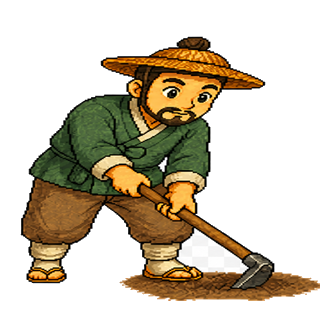
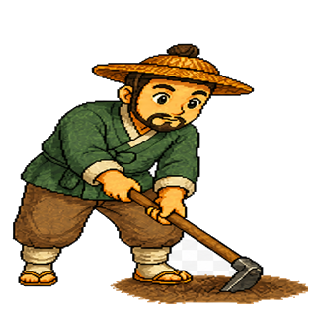
repair farm sprite transparency margins

diff --git a/src/index.html b/src/index.html
@@ -5,13 +5,13 @@
   <meta name="viewport" content="width=device-width,initial-scale=1,viewport-fit=cover">
   <title>선화공주 만들기 — 자산 로딩 테스트</title>
   <link rel="stylesheet" href="style.css?v=0.64.18-debug">
-  <link rel="stylesheet" href="schedule.css?v=0.64.52-debug">
+  <link rel="stylesheet" href="schedule.css?v=0.64.53-debug">
   <link rel="stylesheet" href="schedule-pm2.css?v=0.64.18-debug">
   <link rel="stylesheet" href="birthday.css?v=0.64.18-debug">
   <link rel="stylesheet" href="prologue.css?v=0.64.18-debug">
   <link rel="stylesheet" href="rain-v2.css">
   <link rel="stylesheet" href="naming.css?v=0.64.18-debug">
-  <link rel="stylesheet" href="guardian.css?v=0.64.52-debug">
+  <link rel="stylesheet" href="guardian.css?v=0.64.53-debug">
   <link rel="stylesheet" href="guardian-anime.css?v=0.64.18-debug">
   <link rel="stylesheet" href="naming-stable.css?v=0.64.18-debug">
   <link rel="stylesheet" href="live-changes.css?v=0.64.18-debug">
@@ -48,7 +48,7 @@
       </div>
       <span class="loading-caption">이야기를 열 준비가 되었어요</span>
       <button class="studio-start-sound" id="studioStartSound" type="button">인연의 문을 열기</button>
-      <small class="loading-version" aria-label="현재 게임 버전">v0.64.52-debug</small>
+      <small class="loading-version" aria-label="현재 게임 버전">v0.64.53-debug</small>
     </section>
     <section class="prologue" id="prologue" aria-label="이야기 시작 영상" hidden>
       <audio id="prologueMusic" src="../assets/audio/music/prologue-lantern-and-dawn.mp3" preload="auto" loop></audio>
@@ -244,6 +244,6 @@
       </div>
     </section>
   </main>
-  <script src="schedule-layer-manifests.js?v=0.64.18-debug"></script><script src="story-data.js?v=0.64.18-debug"></script><script src="app.js?v=0.64.52-debug"></script>
+  <script src="schedule-layer-manifests.js?v=0.64.18-debug"></script><script src="story-data.js?v=0.64.18-debug"></script><script src="app.js?v=0.64.53-debug"></script>
 </body>
 </html>

diff --git a/src/app.js b/src/app.js
@@ -237,7 +237,7 @@ const vacationIllustrations=[
 function unifiedAgeFolder(){return '09';}
 function scheduleFramePath(file){return `../assets/characters/seonhwa/schedule-actions/${file}`;}
 function scheduleBasePath(file){return `../assets/characters/seonhwa/schedule-base/${file}`;}
-const scheduleAssetRevision='0.64.52-debug';
+const scheduleAssetRevision='0.64.53-debug';
 const scheduleQaParams=new URLSearchParams(location.search);
 const moonlightStandaloneQa=scheduleQaParams.get('qaHoliday')==='chuseok';
 const sehwaStandaloneQa=scheduleQaParams.get('qaHoliday')==='seollal';

diff --git a/tools/fix_farm_edge_safety.py b/tools/fix_farm_edge_safety.py
@@ -1,0 +1,91 @@
+"""Repair border artifacts and enforce transparent margins on farm sprites."""
+
+from collections import deque
+from io import BytesIO
+from pathlib import Path
+import subprocess
+
+from PIL import Image
+
+
+ROOT = Path(__file__).resolve().parents[1]
+FILES = (
+    ROOT / "assets/schedule-layers-v2/farmwork/hero-actions/chicken-chase-v2/seonhwa-chicken-chase-2.png",
+    ROOT / "assets/schedule-layers-v2/farmwork/hero-actions/chicken-chase-v2/seonhwa-chicken-chase-3.png",
+    ROOT / "assets/schedule-layers-v2/farmwork/npc/farmer-tilling-v3/farmer-tilling-v3-2.png",
+    ROOT / "assets/schedule-layers-v2/farmwork/npc/farmer-tilling-v3/farmer-tilling-v3-3.png",
+)
+
+
+def approved_image(path: Path) -> Image.Image:
+    relative = path.relative_to(ROOT).as_posix()
+    result = subprocess.run(
+        ["git", "show", f"HEAD:{relative}"],
+        cwd=ROOT,
+        check=True,
+        stdout=subprocess.PIPE,
+    )
+    return Image.open(BytesIO(result.stdout)).convert("RGBA")
+
+
+def keep_large_components(image: Image.Image, minimum_pixels: int = 80) -> Image.Image:
+    rgba = image.convert("RGBA")
+    alpha = rgba.getchannel("A")
+    width, height = rgba.size
+    seen = set()
+    for y in range(height):
+        for x in range(width):
+            if (x, y) in seen or alpha.getpixel((x, y)) == 0:
+                continue
+            queue = deque(((x, y),))
+            component = []
+            seen.add((x, y))
+            while queue:
+                px, py = queue.popleft()
+                component.append((px, py))
+                for nx, ny in ((px - 1, py), (px + 1, py), (px, py - 1), (px, py + 1)):
+                    if 0 <= nx < width and 0 <= ny < height and (nx, ny) not in seen and alpha.getpixel((nx, ny)) > 0:
+                        seen.add((nx, ny))
+                        queue.append((nx, ny))
+            if len(component) < minimum_pixels:
+                for px, py in component:
+                    rgba.putpixel((px, py), (0, 0, 0, 0))
+    return rgba
+
+
+def normalize(path: Path) -> None:
+    image = keep_large_components(approved_image(path))
+    bounds = image.getchannel("A").getbbox()
+    if not bounds:
+        raise RuntimeError(f"empty sprite: {path}")
+    sprite = image.crop(bounds)
+
+    max_size = 296
+    scale = min(1, max_size / sprite.width, max_size / sprite.height)
+    if scale < 1:
+        sprite = sprite.resize((round(sprite.width * scale), round(sprite.height * scale)), Image.Resampling.NEAREST)
+
+    canvas = Image.new("RGBA", (320, 320), (0, 0, 0, 0))
+    left = (320 - sprite.width) // 2
+    if "farmer-tilling" in path.name:
+        top = 304 - sprite.height
+    else:
+        top = max(12, min(320 - 12 - sprite.height, bounds[1]))
+    canvas.alpha_composite(sprite, (left, top))
+    if path.name == "seonhwa-chicken-chase-3.png" and bounds[0] == 0:
+        reference_path = path.with_name("seonhwa-chicken-chase-1.png")
+        reference = approved_image(reference_path).crop((35, 145, 92, 202))
+        reference_bounds = reference.getchannel("A").getbbox()
+        if reference_bounds:
+            foot = reference.crop(reference_bounds)
+            canvas.alpha_composite(foot, (left - 4, top + sprite.height - foot.height - 4))
+    canvas.save(path, "PNG", optimize=True)
+
+
+def main() -> None:
+    for path in FILES:
+        normalize(path)
+
+
+if __name__ == "__main__":
+    main()

diff --git a/CHANGELOG.md b/CHANGELOG.md
@@ -1,3 +1,10 @@
+# v0.64.53-debug · 2026-08-25
+
+- 닭 추격 2번 프레임 오른쪽의 검은 세로 아티팩트를 제거했습니다.
+- 닭 추격 3번 프레임의 잘린 뒤쪽 발을 같은 승인 캐릭터 프레임으로 복원하고 투명 여백 안에 배치했습니다.
+- 농부 밭갈이 2·3번 프레임의 흙·도구 영역을 12px 이상 안전 여백 안으로 재배치했습니다.
+- 활성 일정 PNG가 캔버스 네 변에 닿으면 자동검사가 실패하도록 투명 여백 규칙을 강화했습니다.
+
 # v0.64.52-debug · 2026-08-25
 
 - 약초 실패 중간 프레임 가장자리의 반투명 흰색 매트 328픽셀을 제거했습니다.
